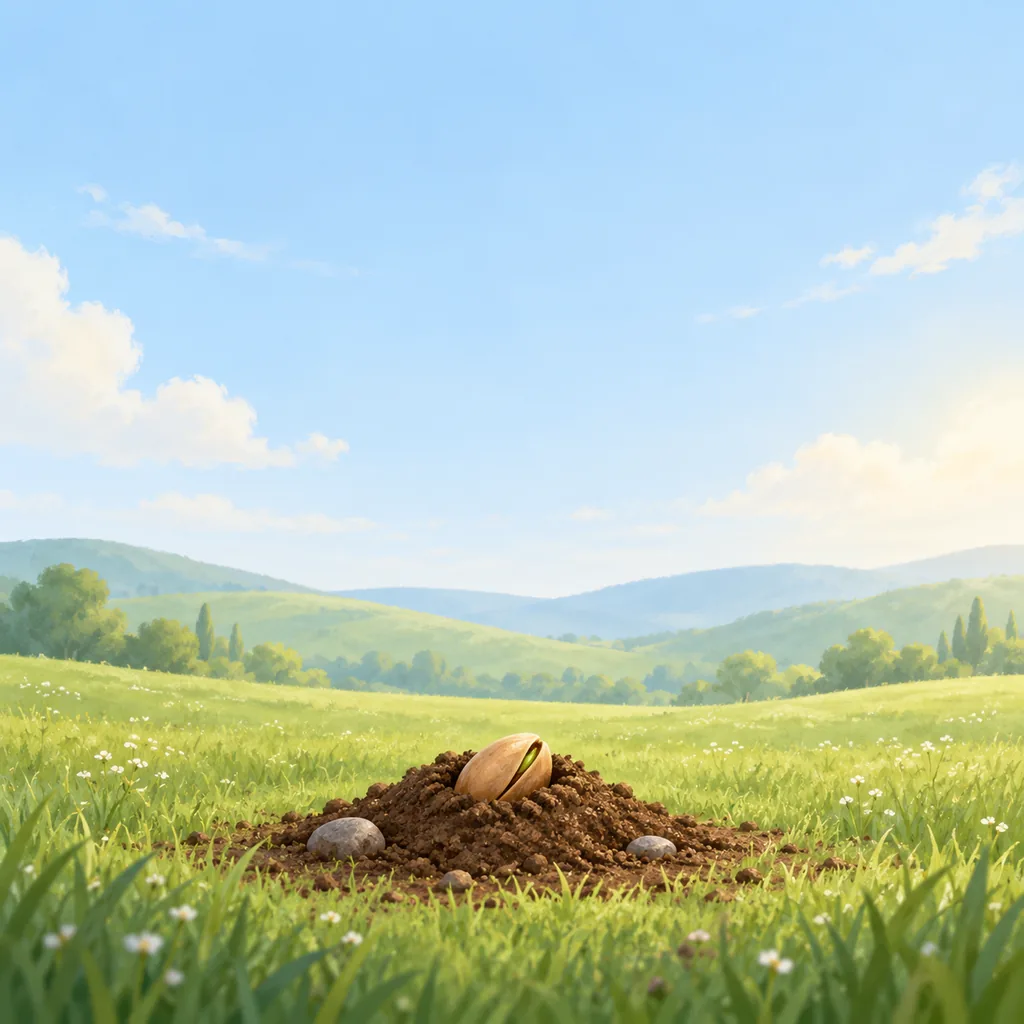
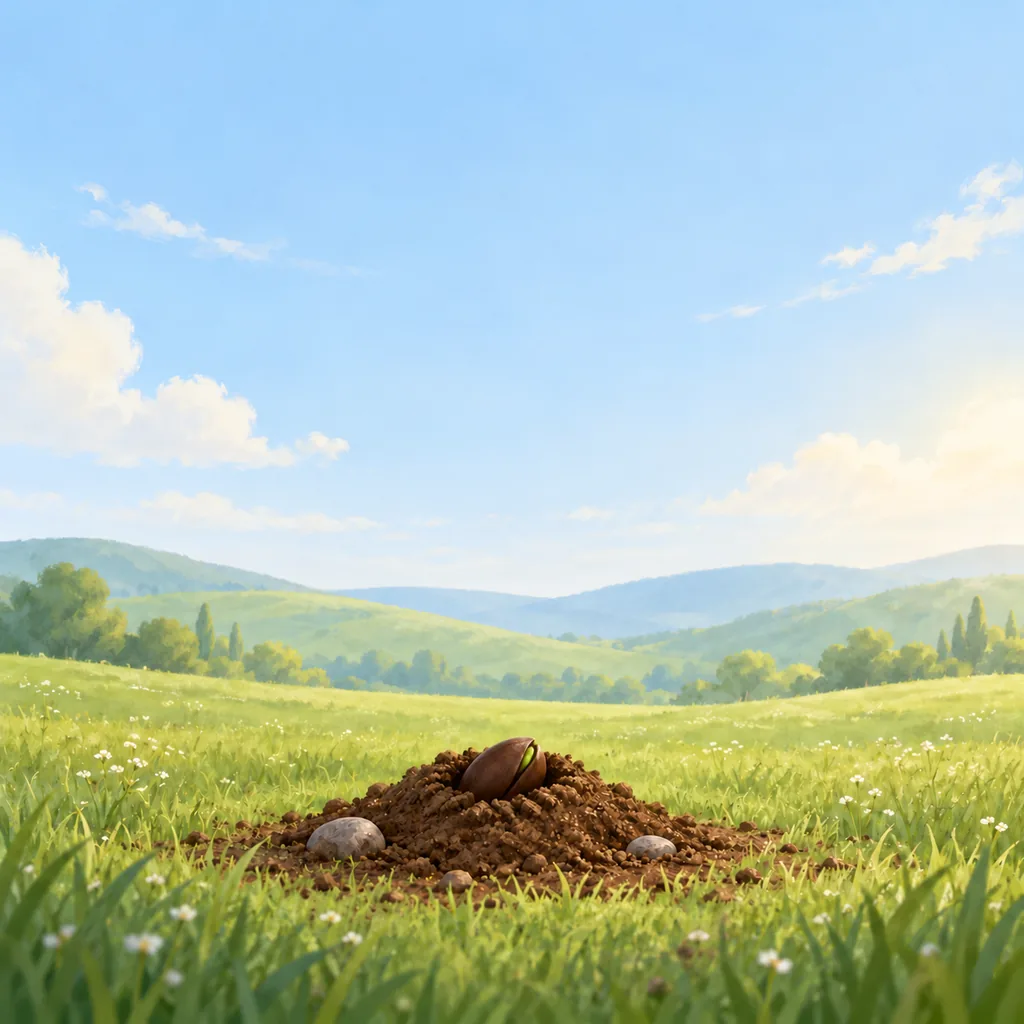
Дерево: новое семечко и нарисованные стадии 4–6 (молодое, крепкое, цветущее)
Claude-Session: https://claude.ai/code/session_01DyVriSEgo7d8FwQphoW3Qp

diff --git a/js/growth.js b/js/growth.js
@@ -93,9 +93,9 @@ function leafPath(x,y,len,ang,col,vein){
 }
 /* Картинки стадий, нарисованные художником (art/tree-NN.webp). Для стадии без картинки дерево рисуется кодом.
    Для каждой стадии: [слева, сверху, размер] — какой квадрат картинки показать (доли от 1): ранние стадии приближены. */
-const TREE_ART={1:[.20,.38,.60], 2:[.20,.38,.60], 3:[.14,.27,.72]};
+const TREE_ART={1:[.20,.38,.60], 2:[.20,.38,.60], 3:[.14,.27,.72], 4:[.06,.10,.88], 5:[0,0,1], 6:[0,0,1]};
 // ночью луна подсвечивает растение: центр и размер пятна света для каждой стадии (в координатах 300×300)
-const TREE_GLOW={1:[150,190,58,40], 2:[150,165,62,56], 3:[150,138,72,88]};
+const TREE_GLOW={1:[150,190,58,40], 2:[150,165,62,56], 3:[150,138,72,88], 4:[150,135,70,100], 5:[150,140,115,115], 6:[150,140,118,115]};
 const treeArtURL = st => TREE_ART[st] ? `art/tree-${String(st).padStart(2,"0")}.webp` : null;
 function treeArtSVG(lv, opts, night){
   const st=stageOf(lv), cr=TREE_ART[st], id="ta"+(++treeUid), R=rng(S.seed||7), k=300/cr[2], out=[];

diff --git a/sw.js b/sw.js
@@ -1,6 +1,6 @@
 // Офлайн-режим: файлы приложения сохраняются на телефоне.
 // При каждом обновлении приложения увеличивайте номер версии.
-const VERSION = "opora-v43";
+const VERSION = "opora-v44";
 const FILES = [
   "./", "./index.html", "./css/style.css", "./js/theme.js", "./js/config.js", "./js/content.js", "./js/content2.js", "./js/daily.js", "./js/app.js", "./js/growth.js", "./js/cards.js", "./js/thought.js", "./js/sounds.js", "./js/relations.js", "./js/couple.js", "./js/together.js", "./js/garden.js", "./js/goals.js", "./js/goals2.js", "./js/goals3.js", "./js/intim.js", "./js/intim2.js", "./js/retain.js", "./js/love2.js", "./js/thoughts2.js", "./js/achieve.js", "./js/howto.js", "./js/legal.js", "./js/ui.js",
   "./fonts/onest.woff", "./manifest.webmanifest", "./icons/icon-192.png", "./icons/icon-512.png", "./icons/apple-touch-icon.png"
